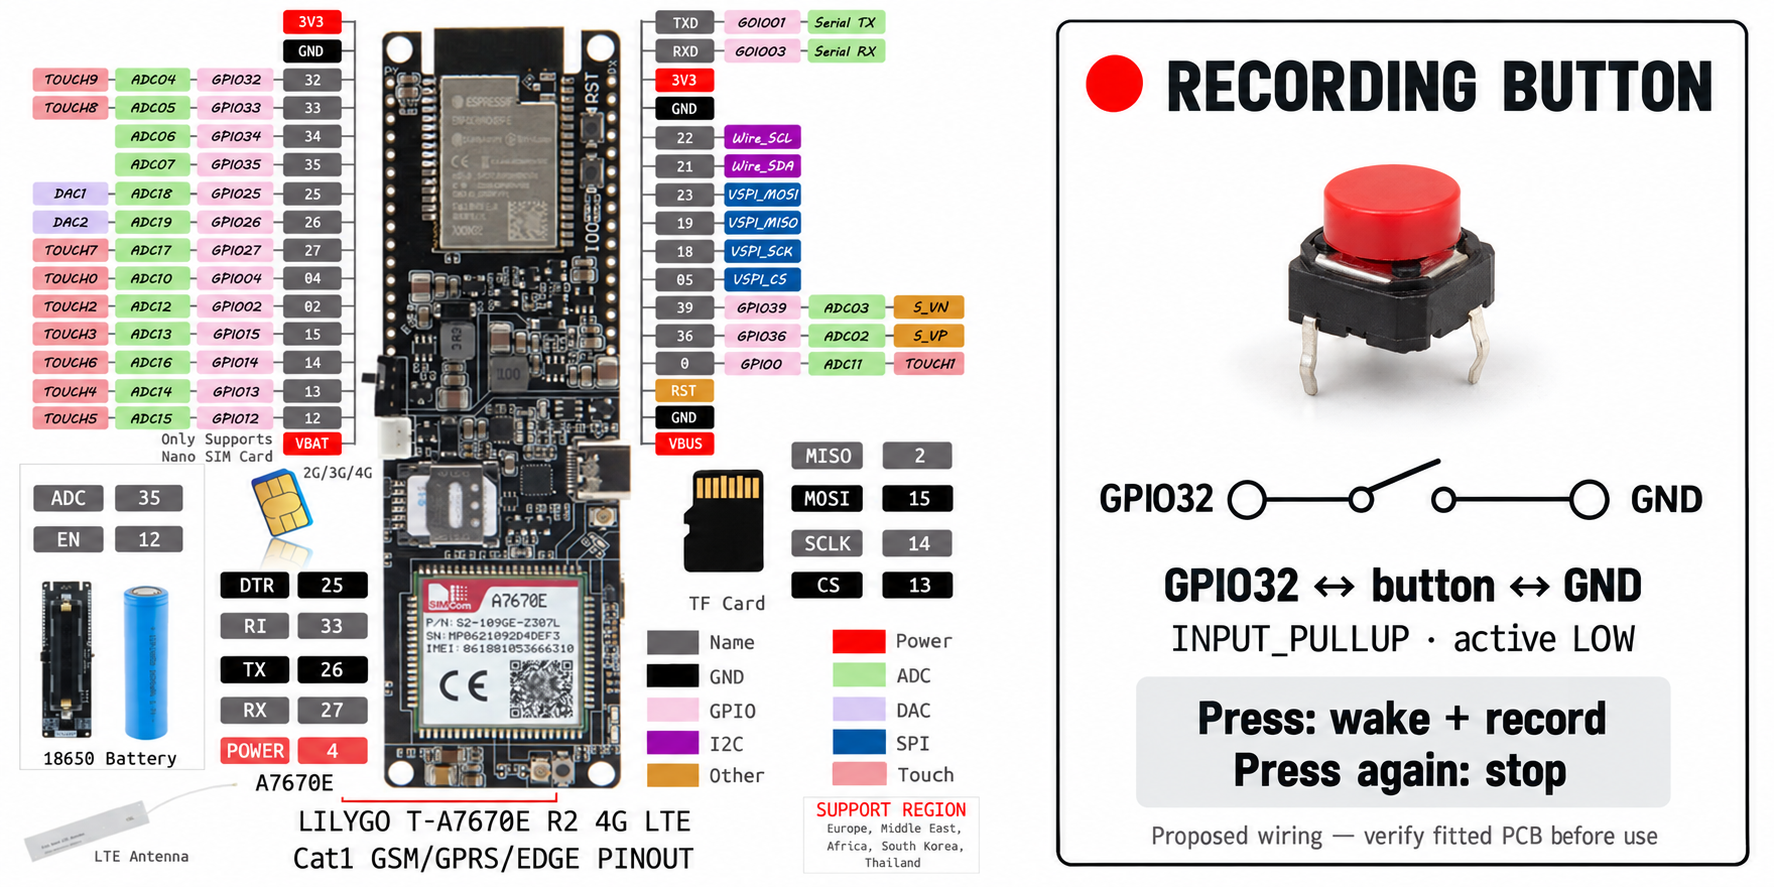
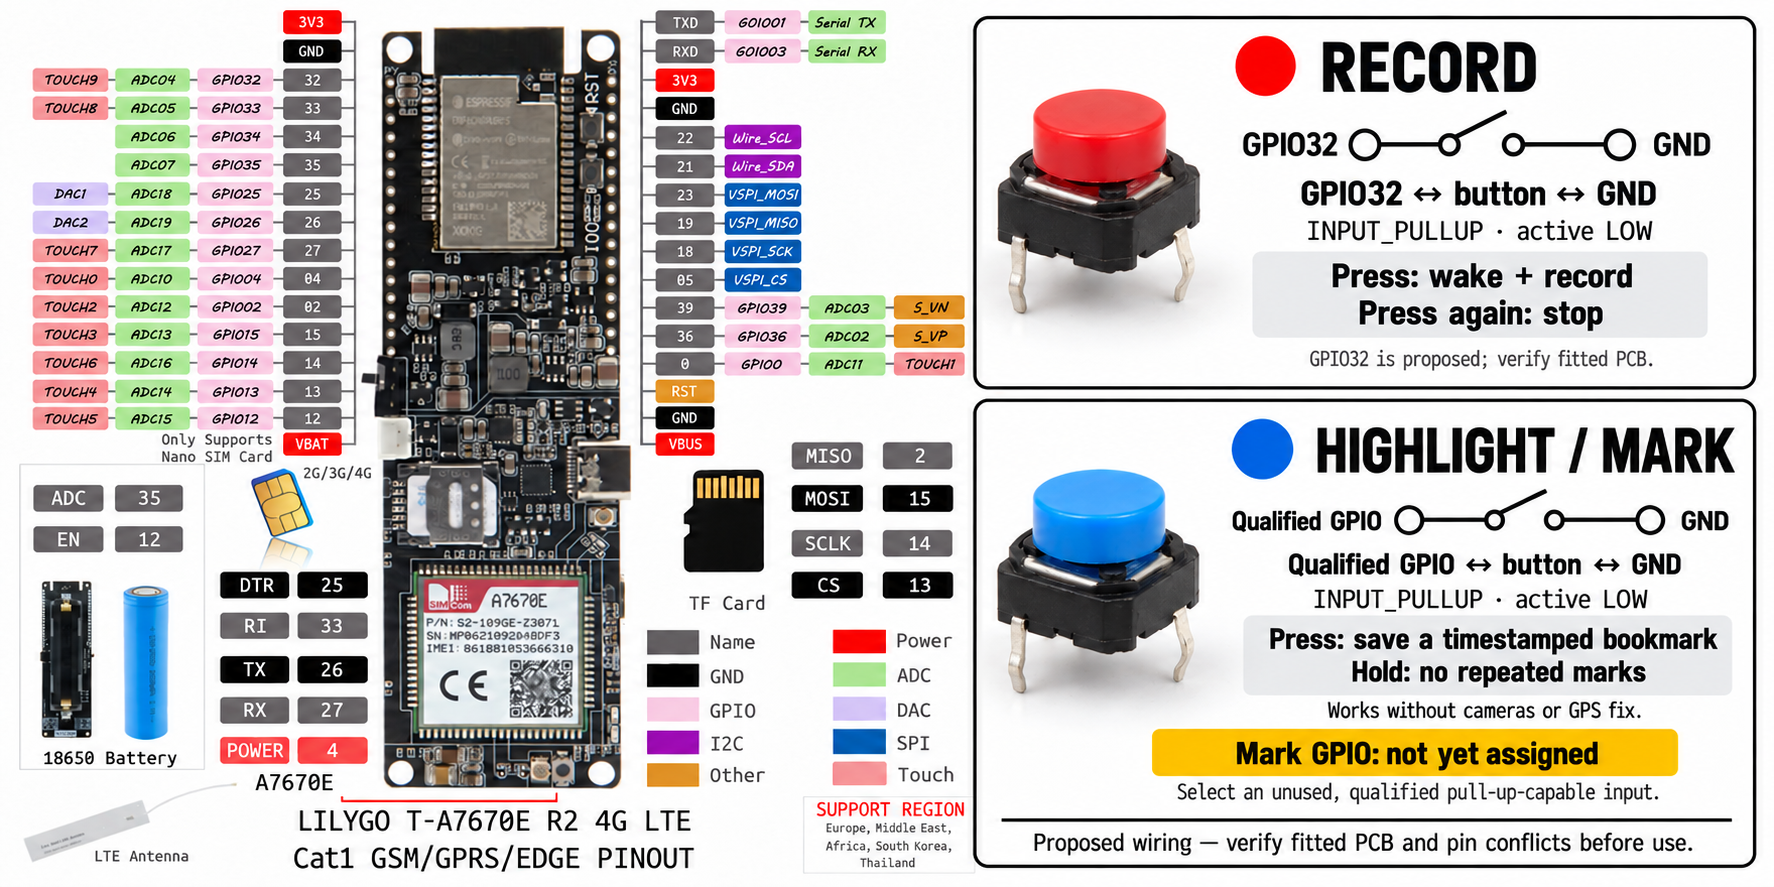
Show dedicated Highlight / Mark button in README wiring image

diff --git a/README.md b/README.md
@@ -10,7 +10,7 @@ telemetry forwarding depend on each model's verified capabilities.
 
 ## Board pinout
 
-![LILYGO T-A7670E board pinout with proposed GPIO32-to-GND recording button: press to wake and record, press again to stop](docs/images/t-a7670e-recording-button.png)
+![LILYGO T-A7670E board pinout with separate Record and Highlight / Mark buttons: proposed GPIO32 recording input and an unassigned, qualified GPIO for one bookmark per press](docs/images/t-a7670e-recording-button.png)
 
 Annotated overview based on the official [LILYGO T-A7670E pin diagram](https://wiki.lilygo.cc/products/t-sim-series/t-a7670/)
 ([unmodified original image](https://wiki.lilygo.cc/products/t-sim-series/t-a7670/index/image/t-a7670e-3.jpg)).
@@ -18,6 +18,11 @@ The external, normally-open recording button is shown between **GPIO32 and GND**
 using an internal pull-up and active-low input. This is a **proposed connection**:
 verify the fitted PCB and pin conflicts before enabling the qualified button
 configuration; the illustration does not enable GPIO32 in firmware.
+The separate **Highlight / Mark** button saves one timestamped bookmark per
+debounced press, with no repeat while held. Its GPIO is **not yet assigned**:
+the illustrated pull-up wiring requires an unused, independently qualified
+pull-up-capable input. Both inputs remain subject to fitted-board and pin-conflict
+checks. See [dedicated Mark button setup](docs/bookmarks.md#dedicated-highlight--mark-button).
 
 The fitted board has an ESP32-WROVER-E module and a **V1.4** PCB marking;
 compare the header labels with the
